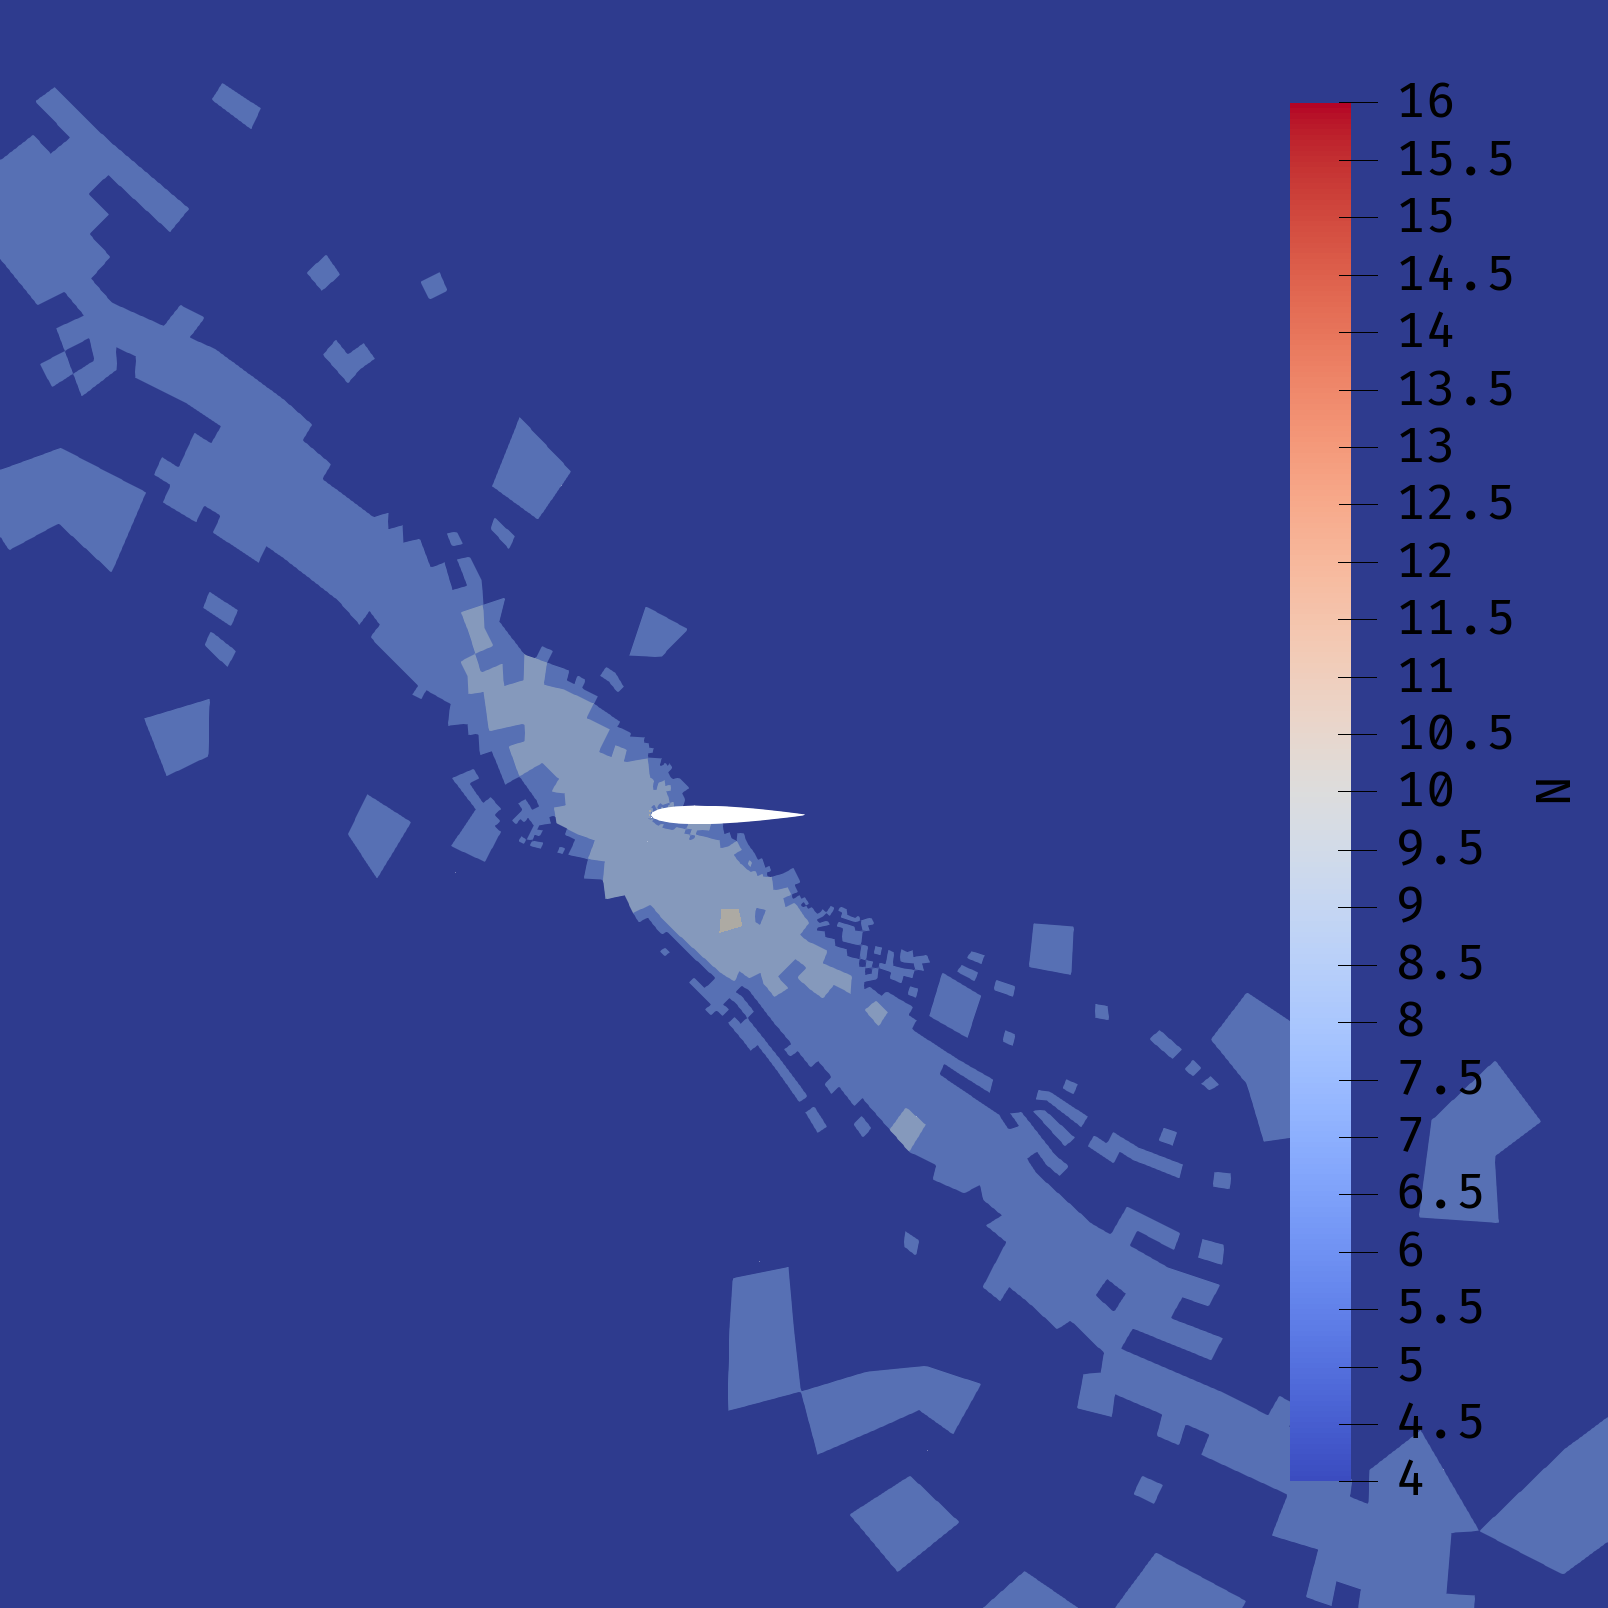
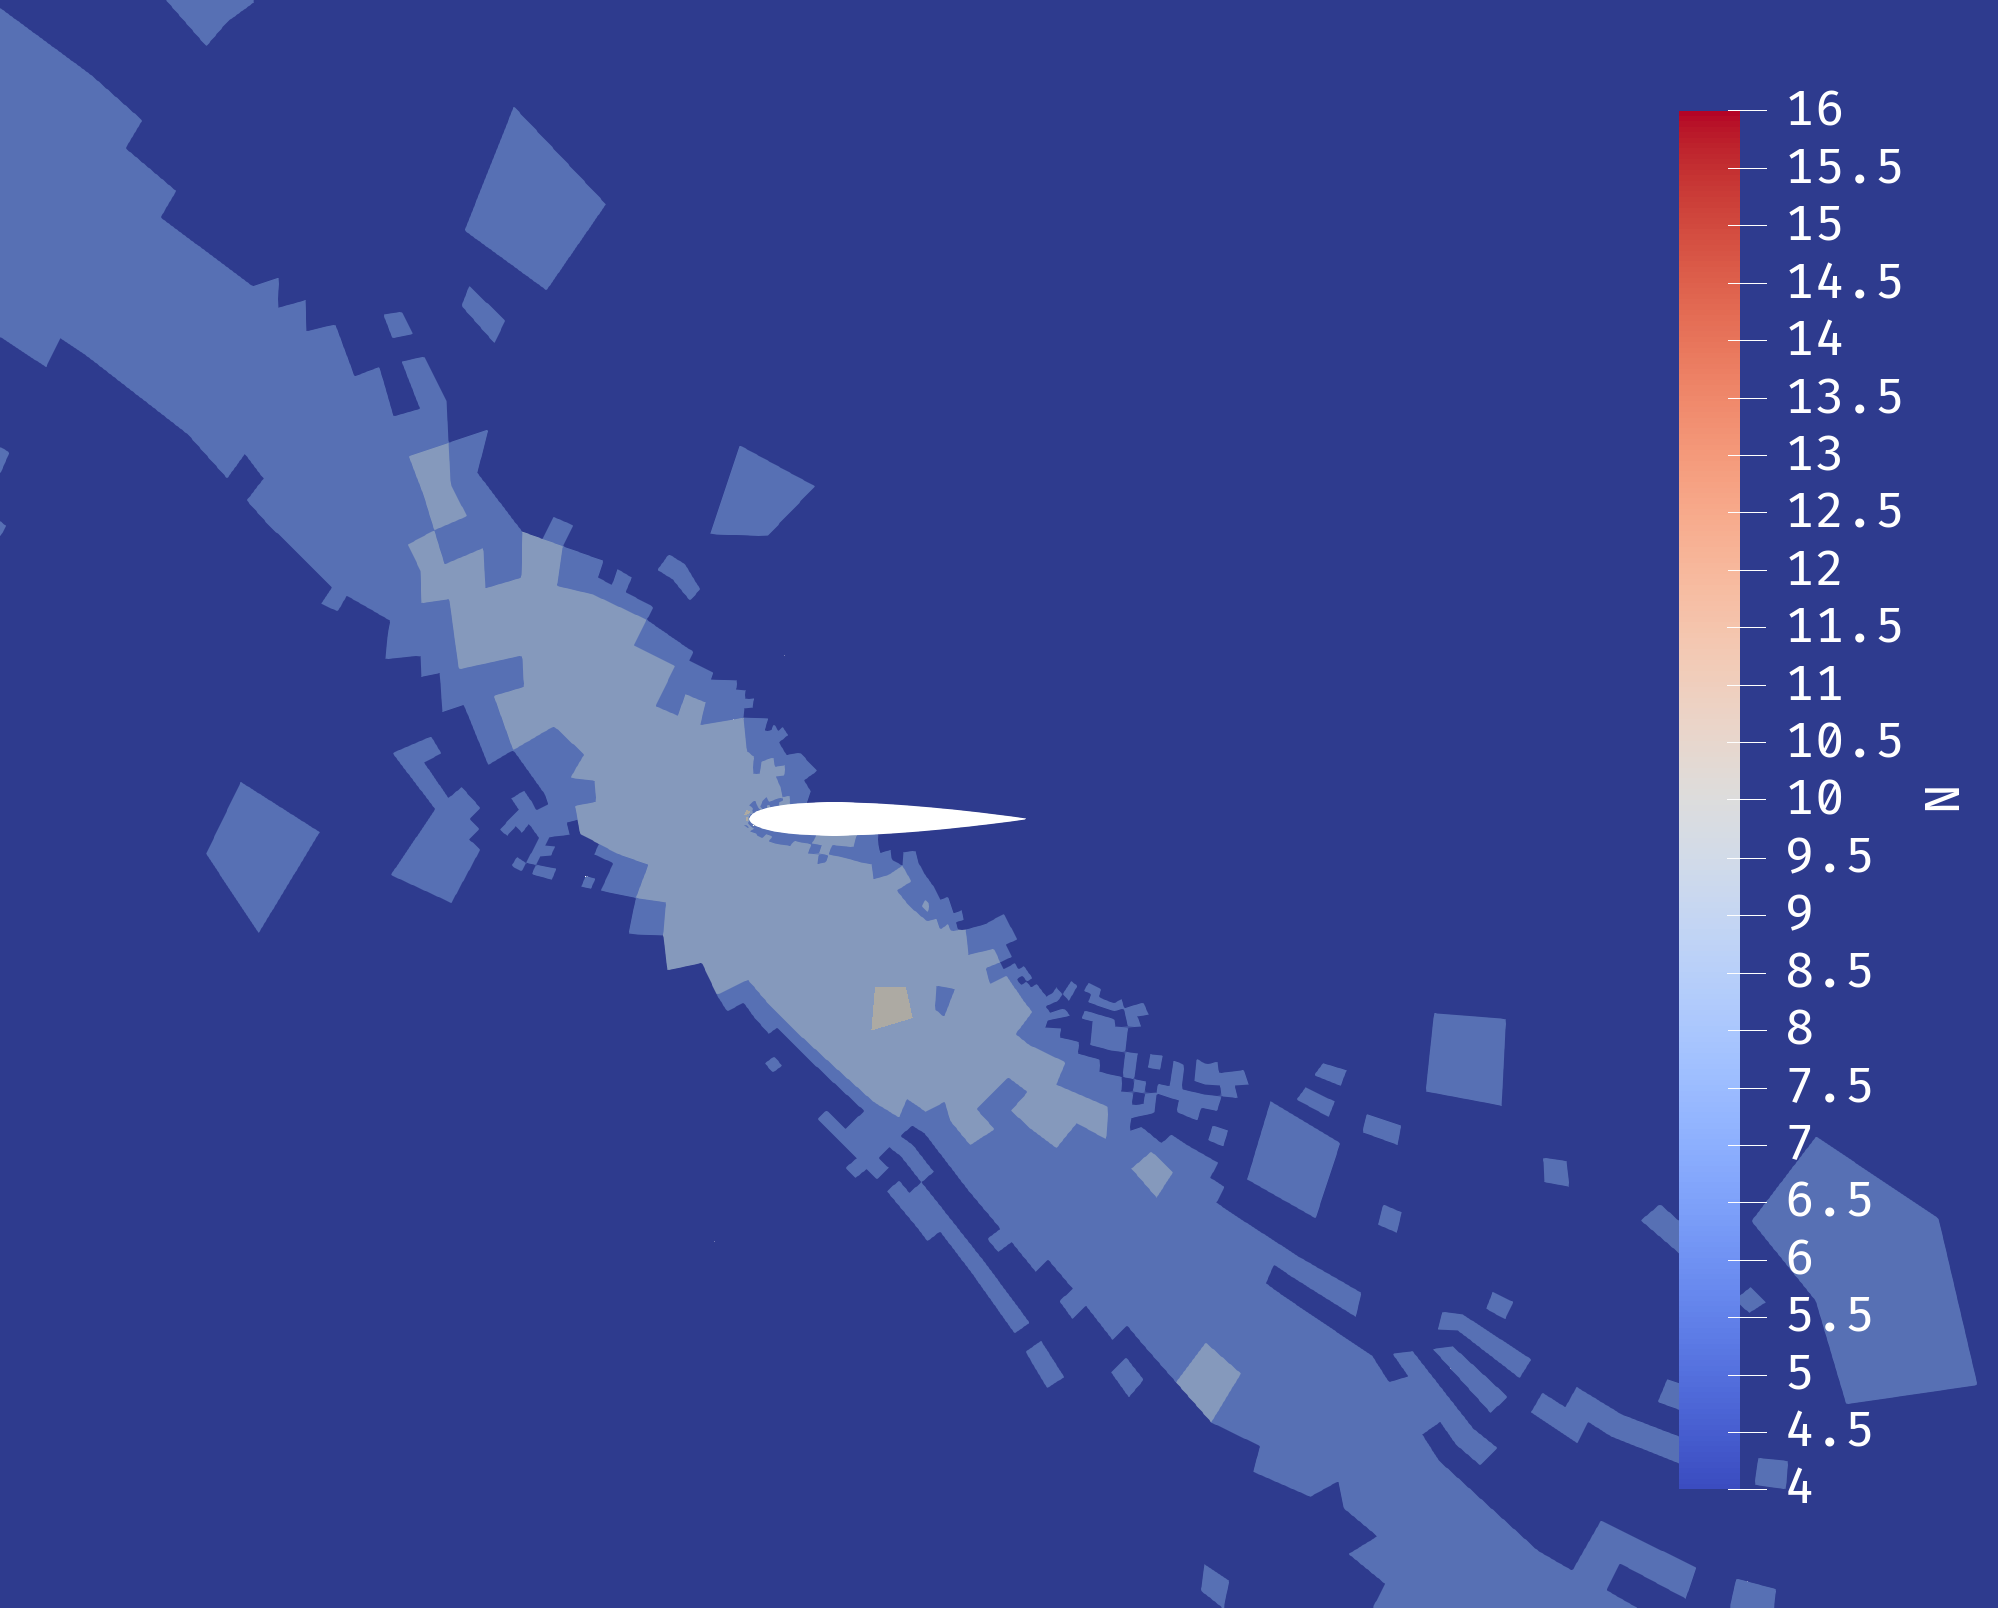
more results

diff --git a/thesis/Chapter_results/results.tex b/thesis/Chapter_results/results.tex
@@ -454,27 +454,46 @@ Max split level  \(S\). Where  \(K_p\) is the number of elements in process  \(p
 	\caption{Polynomial order influence: Iteration time with increasing polynomial order.}\label{fig:N_influence}
 \end{figure}
 
-\section{Complex Application}\label{section:results:complex_application}
+\section{Complex Case}\label{section:results:complex_application}
+
+\begin{figure}[H]
+	\centering
+	\subfloat[\( t = 0 s\)]
+	{\includegraphics[width=0.45\textwidth]{Chapter_results/media/cloud_t0}\label{fig:cloud_p_t0}}
+	\hfill
+	\subfloat[\( t = 0.2 s\)]
+	{\includegraphics[width=0.45\textwidth]{Chapter_results/media/cloud_t0_2}\label{fig:cloud_p_t0_2}}
+	\caption{Complex case: A wave goes through a cloud of high pressure. (a) Initial conditions (b) After the wave and cloud collide}\label{fig:cloud_p}
+\end{figure}
 
 \section{Complex Meshes}\label{section:results:complex_meshes}
-% Move to annex
 
 \begin{figure}[H]
 	\centering
 	\subfloat[Circular domain]
-	{\includegraphics[width=0.45\textwidth]{Chapter_results/media/airfoil_mesh}\label{fig:complex_mesh_close}}
+	{\includegraphics[width=0.45\textwidth]{Chapter_results/media/airfoil_mesh_far}\label{fig:complex_mesh_far}}
 	\hfill
 	\subfloat[Airfoil]
-	{\includegraphics[width=0.45\textwidth]{Chapter_results/media/airfoil_mesh_close}\label{fig:complex_mesh_far}}
+	{\includegraphics[width=0.45\textwidth]{Chapter_results/media/airfoil_mesh_near}\label{fig:complex_mesh_near}}
 	\caption{Complex mesh: An airfoil in an unstructured circular domain. (a) Complete domain (b) Up close}\label{fig:complex_mesh}
 \end{figure}
 
 \begin{figure}[H]
 	\centering
+
 	\subfloat[Pressure]
-	{\includegraphics[width=0.45\textwidth]{Chapter_results/media/airfoil_pressure_close_t1_6}\label{fig:complex_mesh_solution_close}}
+	{\includegraphics[width=0.45\textwidth]{Chapter_results/media/airfoil_pressure_near_t1_5}\label{fig:complex_mesh_solution_close}}
 	\hfill
 	\subfloat[Pressure \(\sigma \)]
-	{\includegraphics[width=0.45\textwidth]{Chapter_results/media/Airfoil 4}\label{fig:complex_mesh_solution_far}}
-	\caption{Complex mesh: A wave going over an airfoil. (a) Pressure (b) Pressure \(\sigma \), denoting if h-refinement or p-refinement would be chosen}\label{fig:complex_mesh_solution}
+	{\includegraphics[width=0.45\textwidth]{Chapter_results/media/airfoil_pressure_sigma_near_t1_5}\label{fig:complex_mesh_solution_far}}
+	
+	\bigskip
+
+	\subfloat[Split level]
+	{\includegraphics[width=0.45\textwidth]{Chapter_results/media/airfoil_split_level_t1_5}\label{fig:complex_mesh_split_level}}
+	\hfill
+	\subfloat[N]
+	{\includegraphics[width=0.45\textwidth]{Chapter_results/media/airfoil_N_t1_5}\label{fig:complex_mesh_N}}
+
+	\caption{Complex mesh: A wave going over an airfoil. (a) Pressure (b) Pressure \(\sigma \), denoting if h-refinement or p-refinement would be chosen (c) Split level, denoting how many times elements have split (d) Polynomial order \(N\)}\label{fig:complex_mesh_solution}
 \end{figure}
